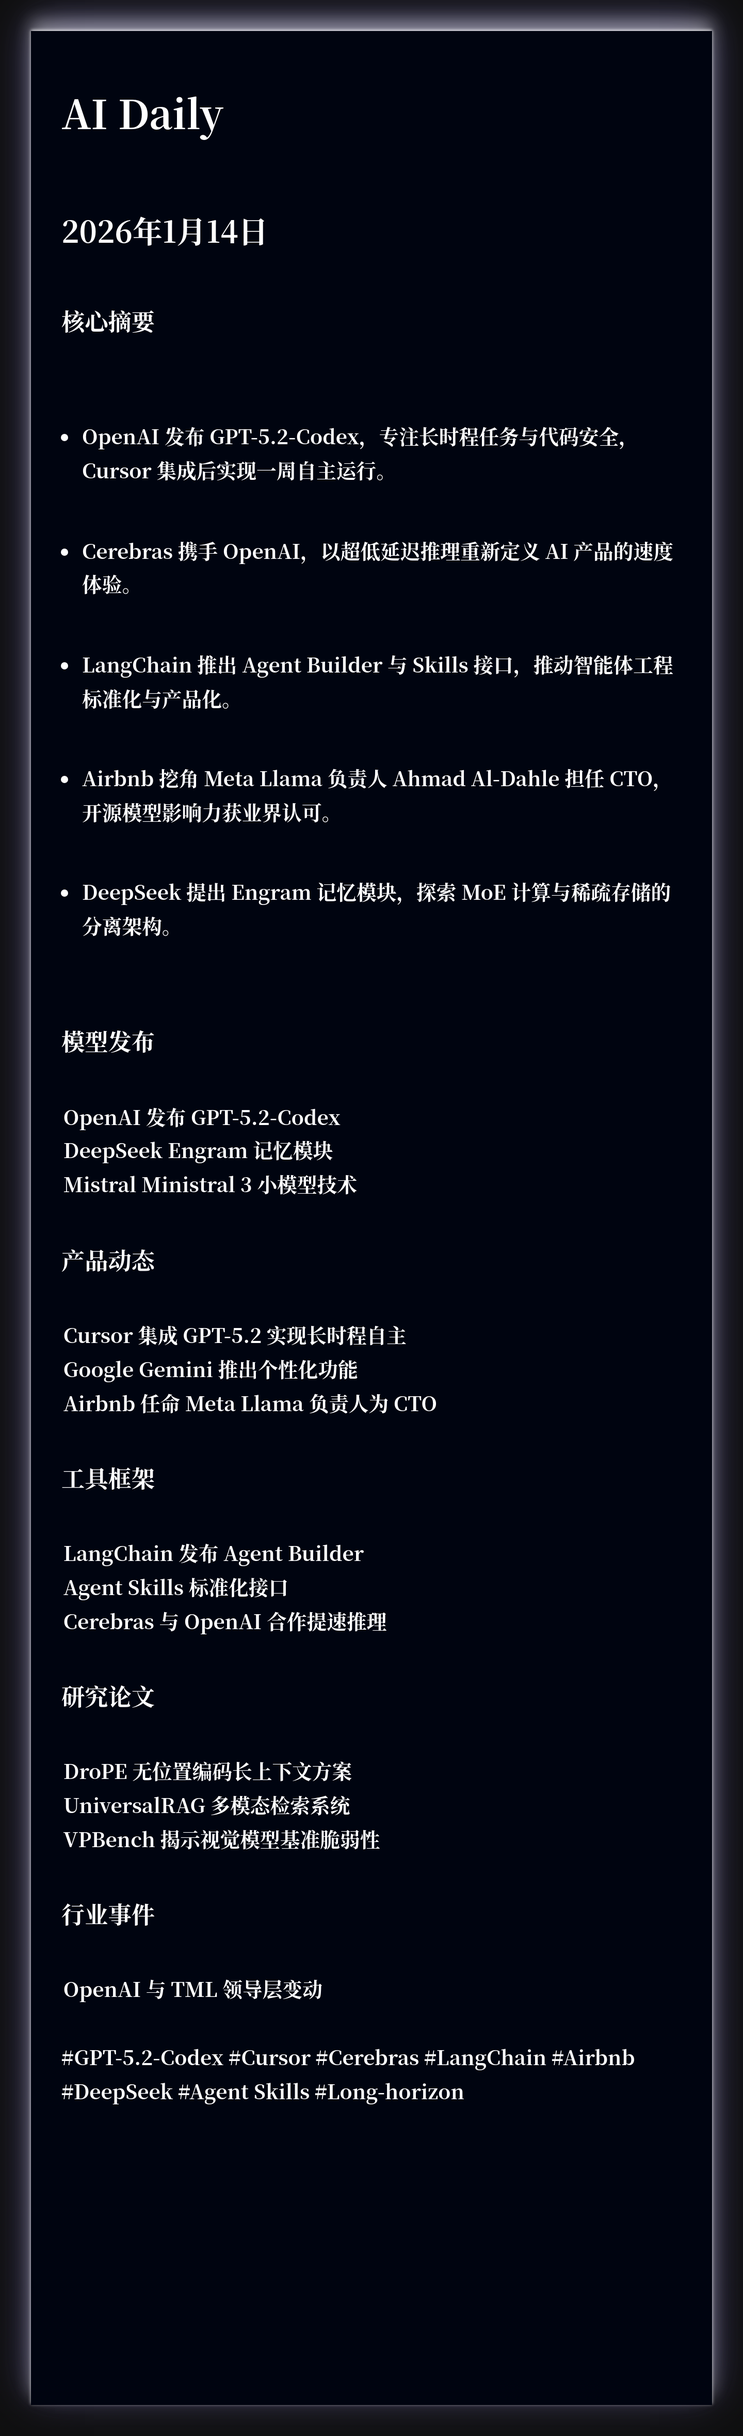
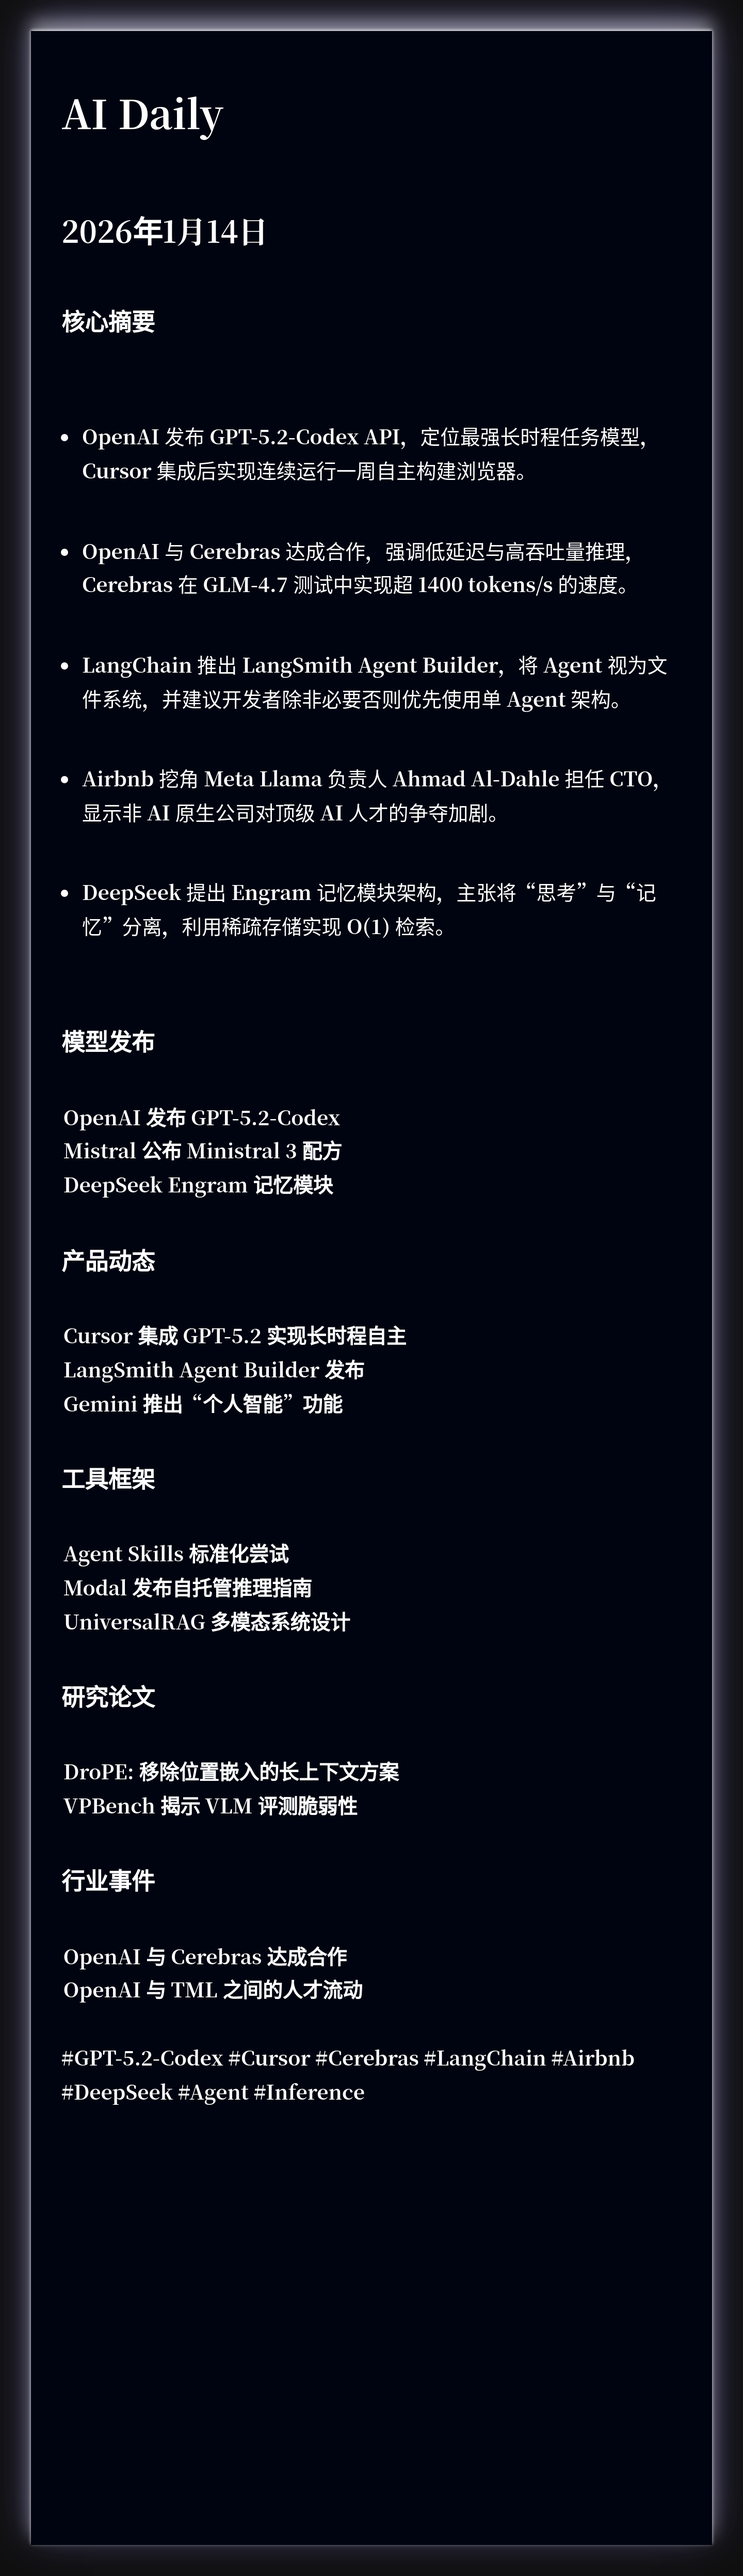
🤖 Auto update AI Daily - {{ date }} 270a61b6d02595405cae476112c91d27165956fd

Changed region(s): [[0.0938, 0.0312, 0.9062, 0.8728]]

diff --git a/2026-01-14.html b/2026-01-14.html
@@ -5,7 +5,7 @@
     <meta name="viewport" content="width=device-width, initial-scale=1.0">
     <title>AI Daily · 2026年1月14日 星期三</title>
     <meta name="description" content="每日 AI 前沿资讯，智能分类，快速掌握核心动态">
-    <meta name="keywords" content="GPT-5.2-Codex, Cursor, Cerebras, LangChain, Airbnb, DeepSeek, Agent Skills, Long-horizon, Inference, Llama, AI, 人工智能, 机器学习, 深度学习, 资讯, 日报">
+    <meta name="keywords" content="GPT-5.2-Codex, Cursor, Cerebras, LangChain, Airbnb, DeepSeek, Agent, Inference, Long-horizon, AI, 人工智能, 机器学习, 深度学习, 资讯, 日报">
     <link rel="stylesheet" href="css/styles.css">
 </head>
 <body data-theme="blue">
@@ -24,11 +24,11 @@
             <section class="summary-card">
                 <h2 class="section-title">📌 今日核心摘要</h2>
                 <ul class="summary-list">
-                <li class="summary-item">OpenAI 发布 GPT-5.2-Codex，专注长时程任务与代码安全，Cursor 集成后实现一周自主运行。</li>
-                <li class="summary-item">Cerebras 携手 OpenAI，以超低延迟推理重新定义 AI 产品的速度体验。</li>
-                <li class="summary-item">LangChain 推出 Agent Builder 与 Skills 接口，推动智能体工程标准化与产品化。</li>
-                <li class="summary-item">Airbnb 挖角 Meta Llama 负责人 Ahmad Al-Dahle 担任 CTO，开源模型影响力获业界认可。</li>
-                <li class="summary-item">DeepSeek 提出 Engram 记忆模块，探索 MoE 计算与稀疏存储的分离架构。</li>
+                <li class="summary-item">OpenAI 发布 GPT-5.2-Codex API，定位最强长时程任务模型，Cursor 集成后实现连续运行一周自主构建浏览器。</li>
+                <li class="summary-item">OpenAI 与 Cerebras 达成合作，强调低延迟与高吞吐量推理，Cerebras 在 GLM-4.7 测试中实现超 1400 tokens/s 的速度。</li>
+                <li class="summary-item">LangChain 推出 LangSmith Agent Builder，将 Agent 视为文件系统，并建议开发者除非必要否则优先使用单 Agent 架构。</li>
+                <li class="summary-item">Airbnb 挖角 Meta Llama 负责人 Ahmad Al-Dahle 担任 CTO，显示非 AI 原生公司对顶级 AI 人才的争夺加剧。</li>
+                <li class="summary-item">DeepSeek 提出 Engram 记忆模块架构，主张将“思考”与“记忆”分离，利用稀疏存储实现 O(1) 检索。</li>
                 </ul>
             </section>
 
@@ -46,26 +46,26 @@
                         <h3 class="news-title">OpenAI 发布 GPT-5.2-Codex</h3>
                         <a href="https://twitter.com/OpenAIDevs/status/2011499597169115219" class="item-link" target="_blank" rel="noopener">详情</a>
                     </div>
-                    <p class="news-summary">定位最强代码模型，支持长时程任务与漏洞挖掘，GitHub 与 Cursor 迅速集成。</p>
-                    <div class="item-tags"><span class="tag">#OpenAI</span> <span class="tag">#GPT-5.2</span> <span class="tag">#Codex</span> <span class="tag">#GitHub</span></div>
+                    <p class="news-summary">定位为处理长时程任务（如重构、漏洞挖掘）的最强代码模型，并强调其网络攻防能力。</p>
+                    <div class="item-tags"><span class="tag">#OpenAI</span> <span class="tag">#GPT-5.2</span> <span class="tag">#Codex</span> <span class="tag">#API</span></div>
+                </article>
+
+                <article class="news-card">
+                    <div class="news-card-header">
+                        <h3 class="news-title">Mistral 公布 Ministral 3 配方</h3>
+                        <a href="https://twitter.com/eliebakouch/status/2011548952676499480" class="item-link" target="_blank" rel="noopener">详情</a>
+                    </div>
+                    <p class="news-summary">详细介绍了通过剪枝和蒸馏技术构建小模型的方法，包括具体的层级和 FFN 剪枝策略。</p>
+                    <div class="item-tags"><span class="tag">#Mistral</span> <span class="tag">#Pruning</span> <span class="tag">#Distillation</span> <span class="tag">#Small Model</span></div>
                 </article>
 
                 <article class="news-card">
                     <div class="news-card-header">
                         <h3 class="news-title">DeepSeek Engram 记忆模块</h3>
-                        <a href="https://twitter.com/ZhihuFrontier/status/2011357373772845097" class="item-link" target="_blank" rel="noopener">详情</a>
+                        <a href="https://twitter.com/LiorOnAI/status/2011468534887469448" class="item-link" target="_blank" rel="noopener">详情</a>
                     </div>
-                    <p class="news-summary">提出“思考与记忆分离”架构，利用 MoE 计算与哈希稀疏存储优化检索。</p>
-                    <div class="item-tags"><span class="tag">#DeepSeek</span> <span class="tag">#Memory</span> <span class="tag">#MoE</span> <span class="tag">#PKU</span></div>
-                </article>
-
-                <article class="news-card">
-                    <div class="news-card-header">
-                        <h3 class="news-title">Mistral Ministral 3 小模型技术</h3>
-                        <a href="https://twitter.com/eliebakouch/status/2011548952676499480" class="item-link" target="_blank" rel="noopener">详情</a>
-                    </div>
-                    <p class="news-summary">公开剪枝与蒸馏技术细节，通过在线 DPO 与结构化剪枝优化小模型性能。</p>
-                    <div class="item-tags"><span class="tag">#Mistral</span> <span class="tag">#Distillation</span> <span class="tag">#Pruning</span> <span class="tag">#Small Models</span></div>
+                    <p class="news-summary">提出 MoE（计算）+ Engram（存储）的新架构，通过哈希实现 O(1) 复杂度的 N-gram 记忆检索。</p>
+                    <div class="item-tags"><span class="tag">#DeepSeek</span> <span class="tag">#Memory</span> <span class="tag">#MoE</span> <span class="tag">#Architecture</span></div>
                 </article>
 
                 </div>
@@ -75,7 +75,7 @@
                 <div class="category-header">
                     <span class="category-icon">💼</span>
                     <h2 class="category-title">产品动态</h2>
-                    <span class="category-count">3</span>
+                    <span class="category-count">4</span>
                 </div>
                 <div class="news-grid">
 
@@ -84,16 +84,25 @@
                         <h3 class="news-title">Cursor 集成 GPT-5.2 实现长时程自主</h3>
                         <a href="https://twitter.com/cursor_ai/status/2011500027945033904" class="item-link" target="_blank" rel="noopener">详情</a>
                     </div>
-                    <p class="news-summary">利用新模型连续运行一周，生成 300 万行 Rust 代码构建出一个可用的浏览器。</p>
+                    <p class="news-summary">利用新模型连续运行一周，生成 300 万行 Rust 代码构建了一个可用的浏览器，验证了 Agent 的长时工作能力。</p>
                     <div class="item-tags"><span class="tag">#Cursor</span> <span class="tag">#Agent</span> <span class="tag">#Autonomous</span> <span class="tag">#Browser</span></div>
                 </article>
 
                 <article class="news-card">
                     <div class="news-card-header">
-                        <h3 class="news-title">Google Gemini 推出个性化功能</h3>
+                        <h3 class="news-title">LangSmith Agent Builder 发布</h3>
+                        <a href="https://twitter.com/LangChain/status/2011501888735494184" class="item-link" target="_blank" rel="noopener">详情</a>
+                    </div>
+                    <p class="news-summary">提供“Agent 即文件系统”的体验，内置记忆和触发器，支持 Skills/MCP/Subagents，旨在降低 Agent 开发门槛。</p>
+                    <div class="item-tags"><span class="tag">#LangChain</span> <span class="tag">#Agent</span> <span class="tag">#No-code</span> <span class="tag">#Builder</span></div>
+                </article>
+
+                <article class="news-card">
+                    <div class="news-card-header">
+                        <h3 class="news-title">Gemini 推出“个人智能”功能</h3>
                         <a href="https://twitter.com/Google/status/2011473056921706852" class="item-link" target="_blank" rel="noopener">详情</a>
                     </div>
-                    <p class="news-summary">通过关联 Gmail、Photos 等应用数据打造“个人智能”，强调隐私控制。</p>
+                    <p class="news-summary">通过连接 Gmail、Photos 和搜索历史提供个性化服务，强调用户选择权和隐私控制。</p>
                     <div class="item-tags"><span class="tag">#Google</span> <span class="tag">#Gemini</span> <span class="tag">#Personalization</span></div>
                 </article>
 
@@ -102,8 +111,8 @@
                         <h3 class="news-title">Airbnb 任命 Meta Llama 负责人为 CTO</h3>
                         <a href="https://twitter.com/Ahmad_Al_Dahle/status/2011440460821320056" class="item-link" target="_blank" rel="noopener">详情</a>
                     </div>
-                    <p class="news-summary">Ahmad Al-Dahle 离职 Meta 加盟 Airbnb，看好开源模型在产品中的应用潜力。</p>
-                    <div class="item-tags"><span class="tag">#Airbnb</span> <span class="tag">#Meta</span> <span class="tag">#CTO</span> <span class="tag">#Llama</span></div>
+                    <p class="news-summary">Ahmad Al-Dahle 离开 Meta 加入 Airbnb，负责将先进模型能力应用于产品前沿。</p>
+                    <div class="item-tags"><span class="tag">#Airbnb</span> <span class="tag">#Meta</span> <span class="tag">#CTO</span> <span class="tag">#Hiring</span></div>
                 </article>
 
                 </div>
@@ -119,29 +128,29 @@
 
                 <article class="news-card">
                     <div class="news-card-header">
-                        <h3 class="news-title">LangChain 发布 Agent Builder</h3>
-                        <a href="https://twitter.com/LangChain/status/2011501888735494184" class="item-link" target="_blank" rel="noopener">详情</a>
-                    </div>
-                    <p class="news-summary">提供文件系统式智能体构建体验，支持 Skills/MCP/Subagents，建议从单 Agent 起步。</p>
-                    <div class="item-tags"><span class="tag">#LangChain</span> <span class="tag">#Agent</span> <span class="tag">#MCP</span> <span class="tag">#Builder</span></div>
-                </article>
-
-                <article class="news-card">
-                    <div class="news-card-header">
-                        <h3 class="news-title">Agent Skills 标准化接口</h3>
+                        <h3 class="news-title">Agent Skills 标准化尝试</h3>
                         <a href="https://twitter.com/_philschmid/status/2011345054343053370" class="item-link" target="_blank" rel="noopener">详情</a>
                     </div>
-                    <p class="news-summary">推出跨平台技能文件夹规范，兼容 Gemini/Claude/OpenCode 生态系统。</p>
+                    <p class="news-summary">Phil Schmid 推出 Agent Skills，旨在通过标准化文件夹结构实现技能在不同 CLI 生态（如 Gemini/Claude）间的移植。</p>
                     <div class="item-tags"><span class="tag">#Skills</span> <span class="tag">#Standardization</span> <span class="tag">#CLI</span> <span class="tag">#MCP</span></div>
                 </article>
 
                 <article class="news-card">
                     <div class="news-card-header">
-                        <h3 class="news-title">Cerebras 与 OpenAI 合作提速推理</h3>
-                        <a href="https://twitter.com/cerebras/status/2011531740804964855" class="item-link" target="_blank" rel="noopener">详情</a>
+                        <h3 class="news-title">Modal 发布自托管推理指南</h3>
+                        <a href="https://twitter.com/charles_irl/status/2011484220032762114" class="item-link" target="_blank" rel="noopener">详情</a>
                     </div>
-                    <p class="news-summary">Cerebras 极致吞吐量（1445 t/s）成为 ChatGPT 体验的关键差异化因素。</p>
-                    <div class="item-tags"><span class="tag">#Cerebras</span> <span class="tag">#Inference</span> <span class="tag">#Speed</span> <span class="tag">#OpenAI</span></div>
+                    <p class="news-summary">详细介绍了如何通过自托管推理匹配或超越 API 的经济效益，包括维护 2 万块 GPU 的运营经验。</p>
+                    <div class="item-tags"><span class="tag">#Modal</span> <span class="tag">#Inference</span> <span class="tag">#Self-hosted</span> <span class="tag">#Cost</span></div>
+                </article>
+
+                <article class="news-card">
+                    <div class="news-card-header">
+                        <h3 class="news-title">UniversalRAG 多模态系统设计</h3>
+                        <a href="https://twitter.com/omarsar0/status/2011442693134754243" class="item-link" target="_blank" rel="noopener">详情</a>
+                    </div>
+                    <p class="news-summary">提出模态感知路由，避免强制所有内容进入单一嵌入空间，支持跨模态和粒度的检索。</p>
+                    <div class="item-tags"><span class="tag">#RAG</span> <span class="tag">#Multimodal</span> <span class="tag">#Retrieval</span> <span class="tag">#Routing</span></div>
                 </article>
 
                 </div>
@@ -151,34 +160,25 @@
                 <div class="category-header">
                     <span class="category-icon">📚</span>
                     <h2 class="category-title">研究论文</h2>
-                    <span class="category-count">3</span>
+                    <span class="category-count">2</span>
                 </div>
                 <div class="news-grid">
 
                 <article class="news-card">
                     <div class="news-card-header">
-                        <h3 class="news-title">DroPE 无位置编码长上下文方案</h3>
+                        <h3 class="news-title">DroPE: 移除位置嵌入的长上下文方案</h3>
                         <a href="https://twitter.com/gabriberton/status/2011326182986564090" class="item-link" target="_blank" rel="noopener">详情</a>
                     </div>
-                    <p class="news-summary">移除 RoPE 并微调，在 SmolLM 和 Llama2 上实现长上下文性能提升。</p>
+                    <p class="news-summary">研究显示移除 RoPE 并在无位置嵌入情况下微调预训练模型，可在保持性能的同时改善长上下文行为。</p>
                     <div class="item-tags"><span class="tag">#RoPE</span> <span class="tag">#Long Context</span> <span class="tag">#Fine-tuning</span></div>
                 </article>
 
                 <article class="news-card">
                     <div class="news-card-header">
-                        <h3 class="news-title">UniversalRAG 多模态检索系统</h3>
-                        <a href="https://twitter.com/omarsar0/status/2011442693134754243" class="item-link" target="_blank" rel="noopener">详情</a>
-                    </div>
-                    <p class="news-summary">提出模态感知路由与跨粒度检索策略，在 10 个基准测试中取得胜利。</p>
-                    <div class="item-tags"><span class="tag">#RAG</span> <span class="tag">#Multimodal</span> <span class="tag">#Retrieval</span></div>
-                </article>
-
-                <article class="news-card">
-                    <div class="news-card-header">
-                        <h3 class="news-title">VPBench 揭示视觉模型基准脆弱性</h3>
+                        <h3 class="news-title">VPBench 揭示 VLM 评测脆弱性</h3>
                         <a href="https://twitter.com/lisabdunlap/status/2011521499182875116" class="item-link" target="_blank" rel="noopener">详情</a>
                     </div>
-                    <p class="news-summary">研究表明简单的视觉变化（如红蓝标记）即可重排 VLM 排行榜。</p>
+                    <p class="news-summary">研究表明视觉语言模型排行榜可能因微小的视觉变化（如标记颜色）而发生排名逆转，质疑基准稳健性。</p>
                     <div class="item-tags"><span class="tag">#Benchmark</span> <span class="tag">#VLM</span> <span class="tag">#Evaluation</span></div>
                 </article>
 
@@ -189,17 +189,26 @@
                 <div class="category-header">
                     <span class="category-icon">🏆</span>
                     <h2 class="category-title">行业事件</h2>
-                    <span class="category-count">1</span>
+                    <span class="category-count">2</span>
                 </div>
                 <div class="news-grid">
 
                 <article class="news-card">
                     <div class="news-card-header">
-                        <h3 class="news-title">OpenAI 与 TML 领导层变动</h3>
+                        <h3 class="news-title">OpenAI 与 Cerebras 达成合作</h3>
+                        <a href="https://twitter.com/cerebras/status/2011531740804964855" class="item-link" target="_blank" rel="noopener">详情</a>
+                    </div>
+                    <p class="news-summary">双方宣布合作伙伴关系，重点在于利用 Cerebras 硬件实现超低延迟和高吞吐量的推理服务。</p>
+                    <div class="item-tags"><span class="tag">#OpenAI</span> <span class="tag">#Cerebras</span> <span class="tag">#Partnership</span> <span class="tag">#Inference</span></div>
+                </article>
+
+                <article class="news-card">
+                    <div class="news-card-header">
+                        <h3 class="news-title">OpenAI 与 TML 之间的人才流动</h3>
                         <a href="https://twitter.com/miramurati/status/2011577319295692801" class="item-link" target="_blank" rel="noopener">详情</a>
                     </div>
-                    <p class="news-summary">Barret Zoph 离开 Thinking Machines Lab，Soumith Chintala 接任 CTO，随后 Zoph 回归 OpenAI。</p>
-                    <div class="item-tags"><span class="tag">#OpenAI</span> <span class="tag">#Leadership</span> <span class="tag">#Churn</span></div>
+                    <p class="news-summary">Barret Zoph 离开 Thinking Machines Lab 后重返 OpenAI，同时 Soumith Chintala 出任 TML CTO。</p>
+                    <div class="item-tags"><span class="tag">#OpenAI</span> <span class="tag">#TML</span> <span class="tag">#Leadership</span> <span class="tag">#Hiring</span></div>
                 </article>
 
                 </div>
@@ -207,7 +216,7 @@
 
 
         <footer class="keywords-footer">
-            <p>#关键词: GPT-5.2-Codex | Cursor | Cerebras | LangChain | Airbnb | DeepSeek | Agent Skills | Long-horizon | Inference | Llama</p>
+            <p>#关键词: GPT-5.2-Codex | Cursor | Cerebras | LangChain | Airbnb | DeepSeek | Agent | Inference | Long-horizon</p>
         </footer>
 
         </main>

diff --git a/xiaohongshu/xhs-2026-01-14.html b/xiaohongshu/xhs-2026-01-14.html
@@ -318,11 +318,11 @@
                 <div class="title-section">
                     <div class="main-title">GPT · OpenAI</div>
                     <div class="divider"></div>
-                    <div class="subtitle">OpenAI 发布 GPT-5.2-Codex，专...</div>
+                    <div class="subtitle">OpenAI 发布 GPT-5.2-Codex A...</div>
 
                     <!-- 亮点 -->
                     <div class="highlights">
-                        <span class="highlight-item">OpenAI</span><span class="highlight-item">Cerebr</span><span class="highlight-item">LangCh</span>
+                        <span class="highlight-item">OpenAI</span><span class="highlight-item">OpenAI</span><span class="highlight-item">LangCh</span>
                     </div>
                 </div>
 

diff --git a/index.html b/index.html
@@ -29,7 +29,7 @@
                         <span class="entry-date">2026年1月14日 星期三</span>
                         <span class="entry-arrow">→</span>
                     </div>
-                    <p class="entry-summary">OpenAI 发布 GPT-5.2-Codex，专注长时程任务与代码安全，Cursor 集成后实现一周自主运行。</p>
+                    <p class="entry-summary">OpenAI 发布 GPT-5.2-Codex API，定位最强长时程任务模型，Cursor 集成后实现连续运行一周自主构建浏览器。</p>
                 </a>
             </article>
 
